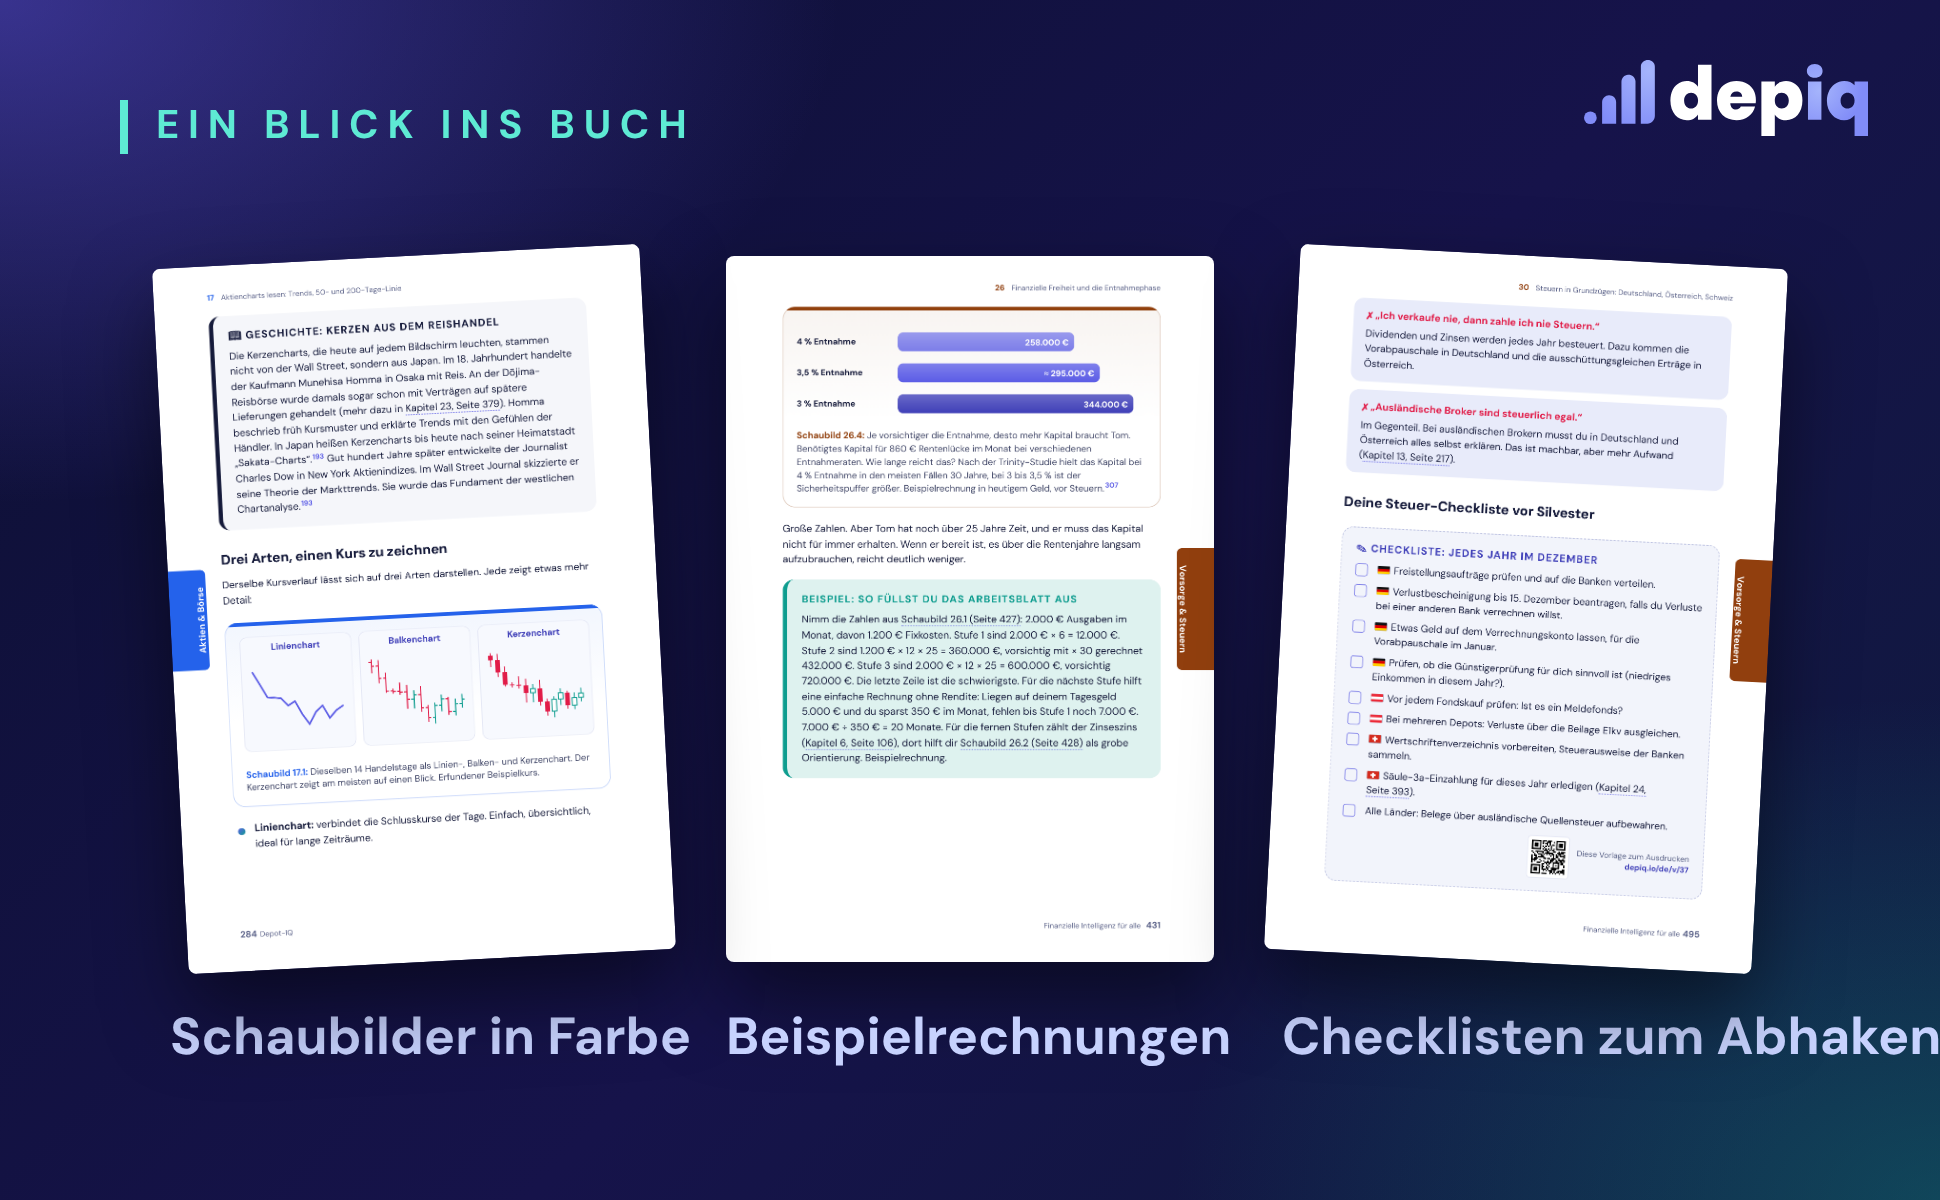
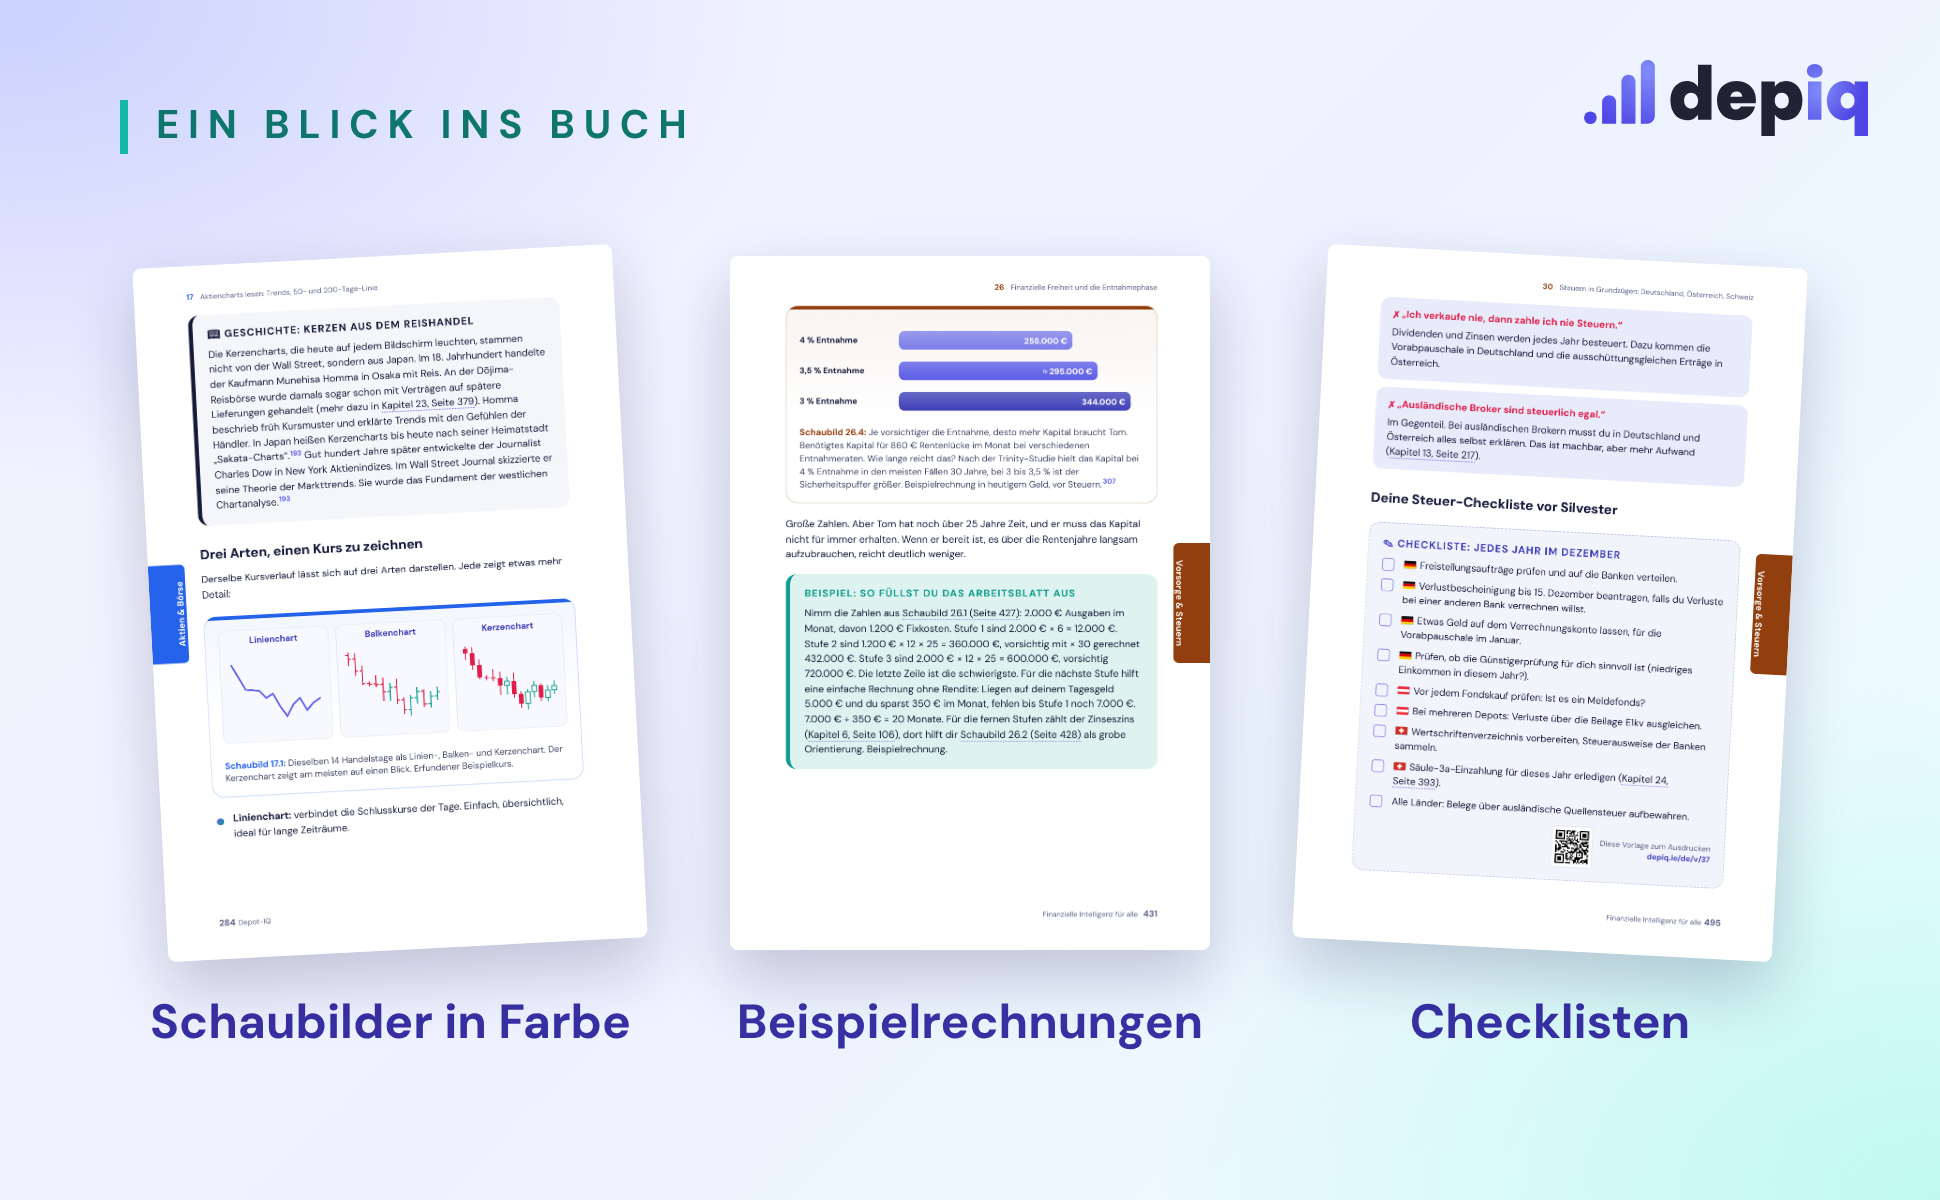
Amazon A+-Inhalt: helle Fassung als Standard, dunkle als Alternative
Claude-Session: https://claude.ai/code/session_01TCMRwfkoPUXt6cdHJjM9Lg

diff --git a/amazon/aplus/dunkel-alternative/module-dunkel.html b/amazon/aplus/dunkel-alternative/module-dunkel.html
@@ -1,0 +1,138 @@
+<!doctype html>
+<html lang="de"><head><meta charset="utf-8">
+<style>
+*{box-sizing:border-box;margin:0;padding:0}
+body{font-family:'DM Sans',sans-serif;background:#222;color:#fff}
+.m{width:970px;height:600px;position:relative;overflow:hidden;margin:0 0 20px;
+  background:radial-gradient(700px 420px at 0% 0%,rgba(109,93,252,.45),transparent 60%),
+             radial-gradient(640px 420px at 100% 100%,rgba(20,184,166,.28),transparent 60%),
+             linear-gradient(135deg,#0d1034 0%,#16134a 55%,#0f1a3d 100%)}
+.logo{position:absolute;top:30px;right:36px;height:38px}
+.kicker{font-size:20px;letter-spacing:.22em;text-transform:uppercase;color:#5eead4;font-weight:700;border-left:4px solid #5eead4;padding-left:14px;line-height:1.35}
+h1{font-size:54px;line-height:1.05;font-weight:800;letter-spacing:-.01em}
+h2{font-size:46px;line-height:1.08;font-weight:800;letter-spacing:-.01em}
+.sub{color:#c7d2fe;font-size:28px;font-weight:600}
+.tile{background:rgba(129,140,248,.16);border:1px solid rgba(165,180,252,.28);border-radius:8px}
+.ico{width:58px;height:58px;border-radius:8px;display:flex;align-items:center;justify-content:center;flex:none}
+.ico svg{width:32px;height:32px;stroke:#fff;fill:none;stroke-width:2;stroke-linecap:round;stroke-linejoin:round}
+.hint{position:absolute;bottom:22px;left:60px;font-size:15px;color:#a5b4fc}
+
+/* 1 Kopf */
+#m1 .cover{position:absolute;left:70px;top:58px;height:484px;border-radius:4px;
+  box-shadow:0 30px 60px rgba(0,0,0,.55),0 0 0 1px rgba(255,255,255,.08);transform:perspective(1200px) rotateY(12deg)}
+#m1 .txt{position:absolute;left:450px;top:70px;right:44px}
+#m1 h1{margin:24px 0 16px;font-size:44px}
+#m1 .stats{display:flex;gap:12px;margin-top:34px}
+#m1 .stat{flex:1;padding:14px 12px;text-align:center}
+#m1 .stat b{display:block;font-size:38px;font-weight:800;color:#fff}
+#m1 .stat span{font-size:22px;color:#5eead4;font-weight:600}
+
+/* 2 Für wen */
+#m2 .head{position:absolute;left:60px;top:58px;right:300px}
+#m2 .grid{position:absolute;left:60px;right:60px;top:200px;display:grid;grid-template-columns:1fr 1fr;gap:18px}
+#m2 .tile{display:flex;align-items:center;gap:20px;padding:22px 22px;min-height:146px}
+#m2 .tile p{font-size:27px;font-weight:700;line-height:1.2}
+#m2 .ico{background:linear-gradient(135deg,#6366f1,#14b8a6)}
+
+/* 3 Lernen */
+#m3 .head{position:absolute;left:60px;top:58px}
+#m3 .grid{position:absolute;left:60px;right:60px;top:186px;display:grid;grid-template-columns:repeat(3,1fr);gap:16px}
+#m3 .tile{padding:22px 20px;min-height:170px;border-left:5px solid var(--c)}
+#m3 .ico{background:var(--c);margin-bottom:16px;width:52px;height:52px}
+#m3 .ico svg{width:28px;height:28px}
+#m3 .tile p{font-size:28px;font-weight:700;line-height:1.18}
+
+/* 4 Einblick */
+#m4 .head{position:absolute;left:60px;top:50px}
+#m4 .pages{position:absolute;left:30px;right:30px;top:128px;display:flex;justify-content:center;gap:50px}
+#m4 figure{width:240px;text-align:center}
+#m4 figure img{width:240px;border-radius:4px;box-shadow:0 18px 40px rgba(0,0,0,.5)}
+#m4 figure:nth-child(1) img{transform:rotate(-3deg)}
+#m4 figure:nth-child(3) img{transform:rotate(3deg)}
+#m4 figcaption{margin-top:16px;white-space:nowrap;font-size:26px;font-weight:700;color:#c7d2fe}
+
+/* 5 Über mich */
+#m5 .foto{position:absolute;left:10px;bottom:0;height:500px;filter:drop-shadow(0 20px 40px rgba(0,0,0,.45))}
+#m5 .ring{position:absolute;left:10px;bottom:-120px;width:460px;height:460px;border-radius:50%;
+  background:radial-gradient(circle,rgba(99,102,241,.55),rgba(20,184,166,.25) 60%,transparent 70%)}
+#m5 .txt{position:absolute;left:500px;top:62px;right:48px}
+#m5 h2{margin:20px 0 20px;font-size:40px}
+#m5 p{font-size:28px;line-height:1.42;color:#e0e7ff;margin-bottom:16px}
+#m5 .sig{display:flex;align-items:center;gap:14px;margin-top:26px;font-size:24px;color:#a5b4fc;font-weight:600}
+#m5 .sig img{height:36px}
+</style></head><body>
+
+<!-- 1 -->
+<section class="m" id="m1">
+  <img class="cover" src="front.png">
+  <div class="txt">
+    <div class="kicker">Das Grundlagenbuch<br>für Einsteiger</div>
+    <h1>Dein Geld verstehen.<br>Deine Zukunft gestalten.</h1>
+    <div class="sub">Einfach erklärt, auch ohne Vorwissen.</div>
+    <div class="stats">
+      <div class="stat tile"><b>32</b><span>Kapitel</span></div>
+      <div class="stat tile"><b>179</b><span>Schaubilder</span></div>
+      <div class="stat tile"><b>42</b><span>Vorlagen</span></div>
+    </div>
+  </div>
+</section>
+
+<!-- 2 -->
+<section class="m" id="m2">
+  <img class="logo" src="logo-dark.svg">
+  <div class="head">
+    <div class="kicker">Für wen ist das Buch?</div>
+    <h2 style="margin-top:20px">Für dich, wenn du …</h2>
+  </div>
+  <div class="grid">
+    <div class="tile"><div class="ico"><svg viewBox="0 0 24 24"><path d="M19 5c-1.5 0-2.8 1.4-3 2-3.5-1.5-11-.3-11 5 0 1.8 0 3 2 4.5V20h4v-2h3v2h4v-4c1-.5 1.7-1 2-2h2v-4c-1 0-1.5-.5-2-1.5V5z"/><path d="M2 9v1c0 1.1.9 2 2 2h1"/></svg></div><p>deine Rentenlücke schließen willst</p></div>
+    <div class="tile"><div class="ico"><svg viewBox="0 0 24 24"><path d="M12 22s8-4 8-10V5l-8-3-8 3v7c0 6 8 10 8 10z"/><path d="M9 12l2 2 4-4"/></svg></div><p>deine Ersparnisse vor Inflation schützen willst</p></div>
+    <div class="tile"><div class="ico"><svg viewBox="0 0 24 24"><path d="M22 7l-8.5 8.5-5-5L2 17"/><path d="M16 7h6v6"/></svg></div><p>Vermögen aufbauen willst, auch mit wenig Geld</p></div>
+    <div class="tile"><div class="ico"><svg viewBox="0 0 24 24"><path d="M2 3h6a4 4 0 0 1 4 4v14a3 3 0 0 0-3-3H2z"/><path d="M22 3h-6a4 4 0 0 0-4 4v14a3 3 0 0 1 3-3h7z"/></svg></div><p>Depot, Aktien &amp; Co. endlich verstehen willst</p></div>
+  </div>
+</section>
+
+<!-- 3 -->
+<section class="m" id="m3">
+  <img class="logo" src="logo-dark.svg">
+  <div class="head">
+    <div class="kicker">Was du lernst</div>
+    <h2 style="margin-top:20px">Alles Wichtige rund um dein Geld</h2>
+  </div>
+  <div class="grid">
+    <div class="tile" style="--c:#4f46e5"><div class="ico"><svg viewBox="0 0 24 24"><path d="M3 3v18h18"/><path d="M7 16c3 0 5-2 7-5s4-5 6-5"/></svg></div><p>Inflation &amp; Zinseszins</p></div>
+    <div class="tile" style="--c:#2563eb"><div class="ico"><svg viewBox="0 0 24 24"><path d="M22 7l-8.5 8.5-5-5L2 17"/><path d="M16 7h6v6"/></svg></div><p>Aktien &amp; ETFs</p></div>
+    <div class="tile" style="--c:#6b7280"><div class="ico"><svg viewBox="0 0 24 24"><path d="M3 21h18"/><path d="M5 21V8l7-5 7 5v13"/><path d="M10 21v-6h4v6"/></svg></div><p>Immobilien, Gold &amp; Krypto</p></div>
+    <div class="tile" style="--c:#b45309"><div class="ico"><svg viewBox="0 0 24 24"><circle cx="9" cy="7" r="3"/><circle cx="17" cy="9" r="2"/><path d="M3 20c0-3.3 2.7-6 6-6s6 2.7 6 6"/><path d="M15 15c2.8 0 5 2 5 5"/></svg></div><p>Familie &amp; Vorsorge</p></div>
+    <div class="tile" style="--c:#16a34a"><div class="ico"><svg viewBox="0 0 24 24"><circle cx="12" cy="12" r="9"/><circle cx="12" cy="12" r="5"/><circle cx="12" cy="12" r="1"/></svg></div><p>Sparplan: so fängst du an</p></div>
+    <div class="tile" style="--c:#e11d48"><div class="ico"><svg viewBox="0 0 24 24"><path d="M10.3 3.9L1.8 18a2 2 0 0 0 1.7 3h17a2 2 0 0 0 1.7-3L13.7 3.9a2 2 0 0 0-3.4 0z"/><path d="M12 9v4"/><path d="M12 17h.01"/></svg></div><p>Anlagefallen &amp; Steuern</p></div>
+  </div>
+</section>
+
+<!-- 4 -->
+<section class="m" id="m4">
+  <img class="logo" src="logo-dark.svg">
+  <div class="head">
+    <div class="kicker">Ein Blick ins Buch</div>
+  </div>
+  <div class="pages">
+    <figure><img src="seite-284.png"><figcaption>Schaubilder in Farbe</figcaption></figure>
+    <figure><img src="seite-431.png"><figcaption>Beispielrechnungen</figcaption></figure>
+    <figure><img src="seite-495.png"><figcaption>Checklisten</figcaption></figure>
+  </div>
+</section>
+
+<!-- 5 -->
+<section class="m" id="m5">
+  <div class="ring"></div>
+  <img class="foto" src="juergen-frei.png">
+  <div class="txt">
+    <div class="kicker">Über den Autor</div>
+    <h2>Hallo, ich bin Jürgen Puhm.</h2>
+    <p>Ich investiere seit über 20 Jahren.</p>
+    <p>In der Schule habe ich über Geld nichts gelernt. Dieses Buch ist das, was ich mir damals gewünscht hätte.</p>
+    <div class="sig">Gründer von <img src="logo-dark.svg"></div>
+  </div>
+</section>
+
+</body></html>

diff --git a/amazon/aplus/module.html b/amazon/aplus/module.html
@@ -44,12 +44,12 @@ h2{font-size:46px;line-height:1.08;font-weight:800;letter-spacing:-.01em}
 
 /* 4 Einblick */
 #m4 .head{position:absolute;left:60px;top:50px}
-#m4 .pages{position:absolute;left:30px;right:30px;top:128px;display:flex;justify-content:center;gap:34px}
-#m4 figure{width:244px;text-align:center}
-#m4 figure img{width:244px;border-radius:4px;box-shadow:0 18px 40px rgba(0,0,0,.5)}
+#m4 .pages{position:absolute;left:30px;right:30px;top:128px;display:flex;justify-content:center;gap:50px}
+#m4 figure{width:240px;text-align:center}
+#m4 figure img{width:240px;border-radius:4px;box-shadow:0 18px 40px rgba(0,0,0,.5)}
 #m4 figure:nth-child(1) img{transform:rotate(-3deg)}
 #m4 figure:nth-child(3) img{transform:rotate(3deg)}
-#m4 figcaption{margin-top:16px;white-space:nowrap;font-size:26px;font-weight:700;color:#c7d2fe}
+#m4 figcaption{margin-top:16px;white-space:nowrap;font-size:24px;font-weight:700;color:#c7d2fe}
 
 /* 5 Über mich */
 #m5 .foto{position:absolute;left:10px;bottom:0;height:500px;filter:drop-shadow(0 20px 40px rgba(0,0,0,.45))}
@@ -60,6 +60,24 @@ h2{font-size:46px;line-height:1.08;font-weight:800;letter-spacing:-.01em}
 #m5 p{font-size:28px;line-height:1.42;color:#e0e7ff;margin-bottom:16px}
 #m5 .sig{display:flex;align-items:center;gap:14px;margin-top:26px;font-size:24px;color:#a5b4fc;font-weight:600}
 #m5 .sig img{height:36px}
+
+/* HELL */
+body{color:#1e1b4b}
+.m{background:radial-gradient(620px 380px at 0% 0%,rgba(165,180,252,.55),transparent 65%),
+  radial-gradient(600px 400px at 100% 100%,rgba(153,246,228,.55),transparent 65%),
+  linear-gradient(135deg,#f5f3ff 0%,#eef2ff 50%,#ecfeff 100%)}
+.kicker{color:#0f766e;border-left-color:#14b8a6}
+.sub{color:#4f46e5}
+.tile{background:rgba(255,255,255,.78);border:1px solid #c7d2fe;box-shadow:0 6px 18px rgba(49,46,129,.08)}
+#m1 .stat b{color:#1e1b4b}
+#m1 .stat span{color:#0f766e}
+#m1 .cover{box-shadow:0 26px 50px rgba(30,27,75,.35)}
+#m4 figure img{box-shadow:0 14px 32px rgba(30,27,75,.22)}
+#m4 figcaption{color:#3730a3}
+#m5 .ring{background:radial-gradient(circle,rgba(129,140,248,.45),rgba(45,212,191,.25) 60%,transparent 70%)}
+#m5 p{color:#312e81}
+#m5 .sig{color:#4338ca}
+#m5 .foto{filter:drop-shadow(0 16px 30px rgba(30,27,75,.25))}
 </style></head><body>
 
 <!-- 1 -->
@@ -79,7 +97,7 @@ h2{font-size:46px;line-height:1.08;font-weight:800;letter-spacing:-.01em}
 
 <!-- 2 -->
 <section class="m" id="m2">
-  <img class="logo" src="logo-dark.svg">
+  <img class="logo" src="logo-light.svg">
   <div class="head">
     <div class="kicker">Für wen ist das Buch?</div>
     <h2 style="margin-top:20px">Für dich, wenn du …</h2>
@@ -94,7 +112,7 @@ h2{font-size:46px;line-height:1.08;font-weight:800;letter-spacing:-.01em}
 
 <!-- 3 -->
 <section class="m" id="m3">
-  <img class="logo" src="logo-dark.svg">
+  <img class="logo" src="logo-light.svg">
   <div class="head">
     <div class="kicker">Was du lernst</div>
     <h2 style="margin-top:20px">Alles Wichtige rund um dein Geld</h2>
@@ -111,14 +129,14 @@ h2{font-size:46px;line-height:1.08;font-weight:800;letter-spacing:-.01em}
 
 <!-- 4 -->
 <section class="m" id="m4">
-  <img class="logo" src="logo-dark.svg">
+  <img class="logo" src="logo-light.svg">
   <div class="head">
     <div class="kicker">Ein Blick ins Buch</div>
   </div>
   <div class="pages">
     <figure><img src="seite-284.png"><figcaption>Schaubilder in Farbe</figcaption></figure>
     <figure><img src="seite-431.png"><figcaption>Beispielrechnungen</figcaption></figure>
-    <figure><img src="seite-495.png"><figcaption>Checklisten zum Abhaken</figcaption></figure>
+    <figure><img src="seite-495.png"><figcaption>Checklisten</figcaption></figure>
   </div>
 </section>
 
@@ -131,7 +149,7 @@ h2{font-size:46px;line-height:1.08;font-weight:800;letter-spacing:-.01em}
     <h2>Hallo, ich bin Jürgen Puhm.</h2>
     <p>Ich investiere seit über 20 Jahren.</p>
     <p>In der Schule habe ich über Geld nichts gelernt. Dieses Buch ist das, was ich mir damals gewünscht hätte.</p>
-    <div class="sig">Gründer von <img src="logo-dark.svg"></div>
+    <div class="sig">Gründer von <img src="logo-light.svg"></div>
   </div>
 </section>
 
